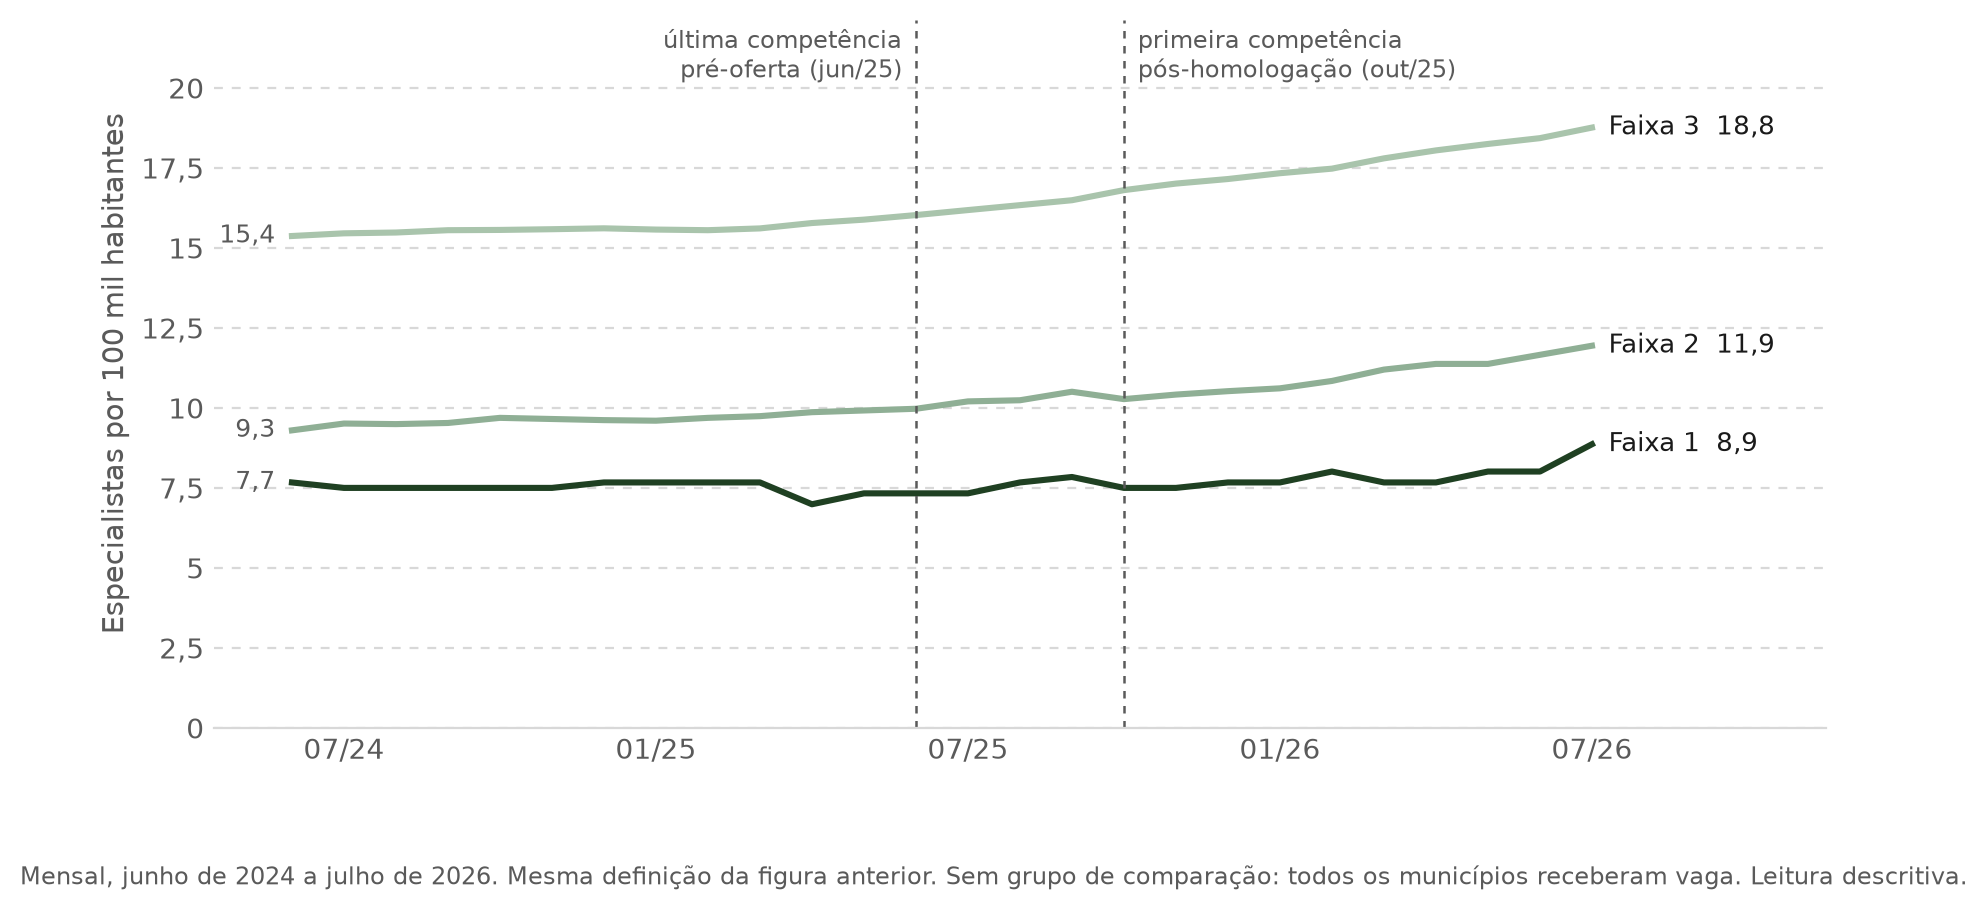
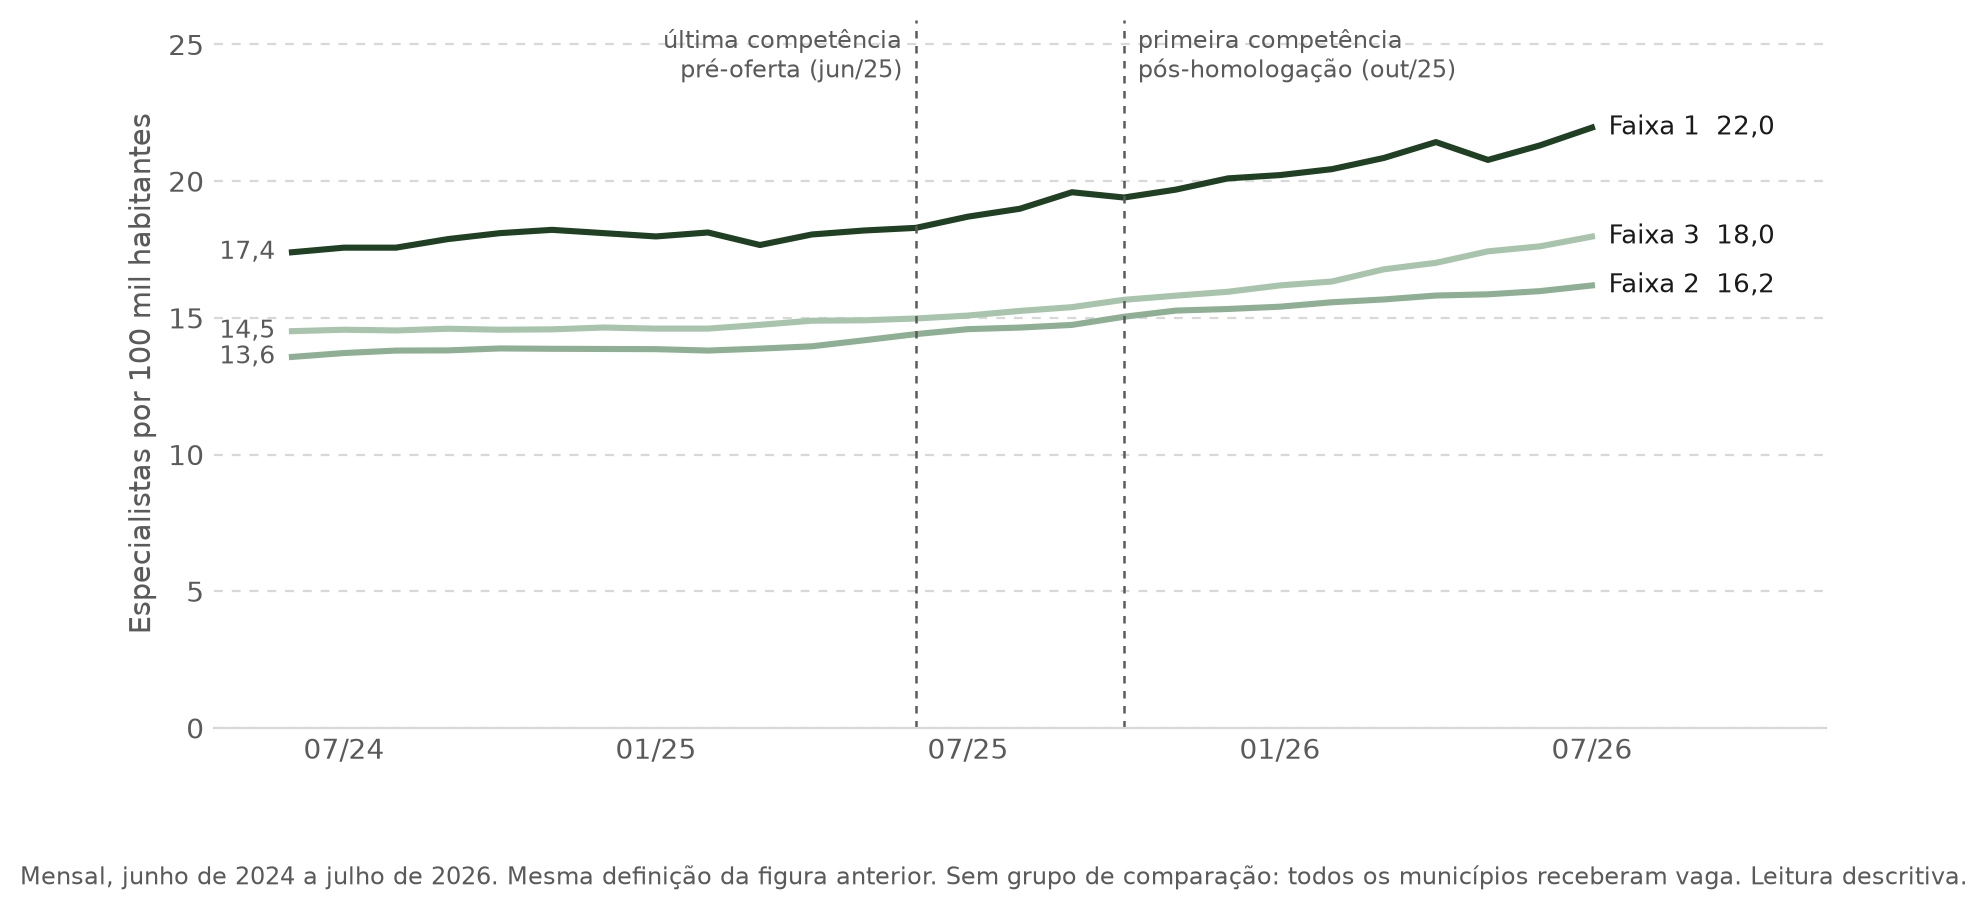
fix(banca1): agrupa as figuras pela faixa publicada e corrige os slides 4, 7 e 18
As figuras F1 e F2 agrupavam os municipios pela categoria de IVS recalculada,
enquanto o texto do slide falava em "municipios com bolsa de R$ 10 mil". Como
as duas coisas divergem em 177 dos 368 municipios, 48% dos rotulos estavam
errados. Regeradas pela faixa efetivamente publicada no quadro de vagas.

A correcao inverte o sinal de F1. A taxa por 100 mil habitantes era 16,0 na
Faixa 3 contra 7,3 na Faixa 1; passa a 15,0 contra 18,3. Municipios de Faixa 1
sao pequenos, e poucos profissionais produzem taxa alta. A retaguarda
profissional de F2 sobrevive e fica mais precisa: mediana de 2,5 colegas na
Faixa 1, 5,0 na Faixa 2 e 6,5 na Faixa 3, com 31% contra 12% de pares em que o
participante seria unico ou teria um colega.

O slide 4 passa a apresentar as duas medidas e a discordancia entre elas, que e
substantiva: a bolsa maior vai para municipios pequenos, de taxa per capita
favoravel e retaguarda rala. E o isolamento profissional, nao a cobertura
populacional, que o desenho precisa levar a serio.

O slide 7 passa a trazer as duas clausulas do edital — 11.1.4, das categorias
de IVS, e 11.1.3, que cita criterios de localizacao e remete ao Anexo IV — e
registra que a divergencia e unidirecional, logo o IVS e piso da bolsa.

O slide 18 afirmava que "nao ha municipios pouco vulneraveis recebendo bolsas
altas". Era falso no proprio dado: 37 municipios com IVS <= 0,400 estao na
Faixa 1 e 94 na Faixa 2. O slide passa a dar o resultado da reconstrucao da
[…]

diff --git a/scripts/apresentacao/gerar_figuras_banca1.py b/scripts/apresentacao/gerar_figuras_banca1.py
@@ -92,9 +92,9 @@ FAIXA_2025 = {
 }
 ORDEM_FAIXAS = ["Faixa 3", "Faixa 2", "Faixa 1"]
 ROTULO_FAIXA = {
-    "Faixa 3": "Faixa 3\nR$ 10 mil\nmédia, baixa ou muito baixa",
-    "Faixa 2": "Faixa 2\nR$ 15 mil\nalta",
-    "Faixa 1": "Faixa 1\nR$ 20 mil\nmuito alta",
+    "Faixa 3": "Faixa 3\nR$ 10 mil",
+    "Faixa 2": "Faixa 2\nR$ 15 mil",
+    "Faixa 1": "Faixa 1\nR$ 20 mil",
 }
 COR_FAIXA = {"Faixa 3": VERDE_CLARO_LINHA, "Faixa 2": VERDE_MEDIO, "Faixa 1": VERDE_ESCURO}
 COR_BARRA = {"Faixa 3": VERDE_CLARO, "Faixa 2": VERDE_MEDIO, "Faixa 1": VERDE_ESCURO}
@@ -128,6 +128,25 @@ def _rodape(fig, texto: str, y: float = -0.06) -> None:
     fig.text(0.5, y, texto, ha="center", fontsize=8.5, color=TINTA_SUAVE, wrap=True)
 
 
+def faixa_publicada() -> pd.DataFrame:
+    """Faixa efetivamente publicada em cada município, do quadro de vagas.
+
+    Agrupar pela categoria de IVS recalculada rotularia errado 177 dos 368
+    municípios: a categoria é o piso da bolsa, não o valor pago. Quem aparece
+    num gráfico "por faixa de bolsa" tem de ser quem recebeu aquela bolsa.
+    """
+    quadro = pd.read_parquet(QUADRO)
+    faixas = (
+        quadro[["co_ibge_6d", "faixa_atracao_anunciada"]]
+        .drop_duplicates()
+        .assign(co_ibge_6d=lambda f: f.co_ibge_6d.astype(str))
+    )
+    if faixas.groupby("co_ibge_6d").faixa_atracao_anunciada.nunique().gt(1).any():
+        raise SystemExit("faixa publicada não é única por município")
+    faixas["faixa"] = faixas["faixa_atracao_anunciada"].str.title().str.replace("Faixa ", "Faixa ")
+    return faixas[["co_ibge_6d", "faixa"]]
+
+
 def _fmt(valor: float) -> str:
     return f"{valor:.1f}".replace(".", ",")
 
@@ -139,12 +158,14 @@ def taxas_por_faixa() -> tuple[pd.DataFrame, dict]:
     pop = pd.read_csv(POPULACAO, dtype={"co_ibge_7d": str})
 
     municipio_mes = (
-        painel.groupby(["competencia", "co_ibge_7d", "ivs_categoria"], as_index=False)
-        ["especialistas_mst"].sum()
+        painel.groupby(["competencia", "co_ibge_6d", "co_ibge_7d", "ivs_categoria"],
+                       as_index=False)["especialistas_mst"].sum()
         .merge(pop[["co_ibge_7d", "populacao_2022"]], on="co_ibge_7d", how="left")
     )
     assert municipio_mes["populacao_2022"].notna().all(), "município sem população"
-    municipio_mes["faixa"] = municipio_mes["ivs_categoria"].map(FAIXA_2025)
+    municipio_mes["co_ibge_6d"] = municipio_mes["co_ibge_6d"].astype(str)
+    municipio_mes = municipio_mes.merge(faixa_publicada(), on="co_ibge_6d", how="left")
+    assert municipio_mes["faixa"].notna().all(), "município sem faixa publicada"
 
     agregado = (
         municipio_mes.groupby(["competencia", "faixa"])
@@ -233,7 +254,9 @@ def figura_retaguarda_por_faixa() -> Path:
     """Quantos colegas da mesma especialidade o médico encontraria no município."""
     painel = pd.read_parquet(PAINEL)
     painel = painel[(painel["curso_sem_sobreposicao"] == 1) & (painel["competencia"] == ULTIMA_PRE)]
-    painel = painel.assign(faixa=painel["ivs_categoria"].map(FAIXA_2025))
+    painel = (painel.assign(co_ibge_6d=painel["co_ibge_6d"].astype(str))
+              .merge(faixa_publicada(), on="co_ibge_6d", how="left"))
+    assert painel["faixa"].notna().all(), "célula sem faixa publicada"
     resumo = painel.groupby("faixa").agg(
         celulas=("especialistas_mst", "size"),
         mediana=("especialistas_mst", "median"),

diff --git a/docs/07_apresentacoes/banca1/02_conteudo_slides.md b/docs/07_apresentacoes/banca1/02_conteudo_slides.md
@@ -66,32 +66,39 @@ recortes de imprensa citados.
 
 ---
 
-## 4 — Municípios com bolsas maiores partiam de uma oferta menor
+## 4 — Onde a bolsa é maior, o médico tem menos colegas — mas não menos oferta por habitante
 
 `1. Motivação · Problema · 2 de 3`
 
-Esse padrão também aparece entre os municípios contemplados pelo programa. Nos
-295 municípios com vagas no ciclo 1, a oferta de especialistas já era menor nas
-faixas de bolsa mais altas antes da publicação do edital.
+Nos 295 municípios com vaga no ciclo 1, agrupados **pela faixa de bolsa
+efetivamente publicada**, as duas medidas de oferta discordam — e a discordância
+é informativa.
 
 ![Especialistas por 100 mil habitantes em junho de 2025, por faixa de bolsa](../../../output/apresentacao_banca1/oferta_pre_por_faixa.png)
 
-Em junho de 2025, havia **16,0 especialistas por 100 mil habitantes** nos
-municípios que receberiam vagas com bolsa de R$ 10 mil. Entre os municípios com
-bolsa de R$ 20 mil, eram **7,3 por 100 mil**.
+Por habitante, a oferta prévia era **maior** onde a bolsa é maior: **18,3
+especialistas por 100 mil** nos municípios de Faixa 1 (R$ 20 mil), contra **15,0**
+na Faixa 3 (R$ 10 mil) e 14,4 na Faixa 2. Municípios de Faixa 1 são pequenos, e
+poucos profissionais bastam para produzir uma taxa alta.
 
 ![Colegas da mesma especialidade no município, junho de 2025](../../../output/apresentacao_banca1/retaguarda_por_faixa.png)
 
-A diferença também aparece dentro de cada especialidade. Na Faixa 1, a mediana
-era de **2 colegas da mesma especialidade** no município, ante 5 na Faixa 3. Em
-**42%** dos pares município–especialidade da Faixa 1, o participante seria o
-único especialista ou teria apenas um colega.
+Em números absolutos, que é o que o médico enxerga ao escolher onde trabalhar, a
+ordem se inverte. Na Faixa 1 a mediana era de **2,5 colegas da mesma
+especialidade** no município, contra 5,0 na Faixa 2 e 6,5 na Faixa 3. Em **31%**
+dos pares município–especialidade da Faixa 1, o participante seria o único
+especialista ou teria apenas um colega — ante 12% na Faixa 3.
+
+A leitura é que a bolsa maior não compensa uma escassez *per capita*: ela vai
+para lugares pequenos, onde a taxa por habitante pode ser até favorável mas a
+**retaguarda profissional é rala**. É essa dimensão — isolamento profissional, não
+cobertura populacional — que o desenho precisa levar a sério.
 
 **Fontes:** CNES, competência 06/2025; profissionais nos CBOs dos 10 cursos do
 programa com correspondência unívoca curso–CBO; 295 municípios com vaga nesses
-cursos no ciclo 1; população residente do Censo 2022 (IBGE). Faixa pela
-categoria de IVS do Ipea. A Faixa 1 tem 19 pares município–especialidade: a
-porcentagem oscila com poucos casos, a mediana não.
+cursos no ciclo 1; população residente do Censo 2022 (IBGE). **Faixa pela bolsa
+publicada em cada vaga**, não pela categoria de IVS recalculada — as duas diferem
+em 177 dos 368 municípios (ver slide 7).
 
 ---
 
@@ -176,40 +183,52 @@ de vagas do ciclo 1, chamada 1; Censo 2022 (IBGE).
 
 ---
 
-## 7 — O valor da bolsa é definido pela vulnerabilidade do município
+## 7 — O IVS é o piso da bolsa, não o critério dela
 
 `1. Motivação · Política · 2 de 2`
 
 A bolsa não varia com a especialidade, a carga de trabalho ou a produção do
-médico. No edital de 2025, o valor dependia da categoria territorial atribuída
-ao município a partir do IVS:
+médico. O edital de 2025 traz **duas** cláusulas sobre como o valor é fixado, e
+elas dizem coisas diferentes:
 
-1. O **IVS 2010**, calculado pelo Ipea, varia de 0 a 1 e reúne dezesseis
-   indicadores do Censo 2010. O índice abrange infraestrutura urbana, capital
-   humano e renda e trabalho.
-2. O Ipea classifica os municípios em cinco categorias: muito baixa (até
-   0,200), baixa (0,201–0,300), média (0,301–0,400), alta (0,401–0,500) e muito
-   alta (acima de 0,500).
-3. O edital agrupou essas categorias em três faixas de bolsa.
+- **11.1.4** define a faixa de atração "com base na categorização municipal do
+  IVS": muito alta → Faixa 1, alta → Faixa 2, média/baixa/muito baixa → Faixa 3.
+- **11.1.3** diz que o valor segue "critérios de **localização** e
+  vulnerabilidade definidos de acordo com a faixa de atração definida no
+  **Anexo IV** no site do Mais Médicos".
 
 | Categoria de IVS | Faixa | Bolsa mensal |
 |---|:---:|---:|
-| muito alta | 1 | R$ 20.000 |
-| alta | 2 | R$ 15.000 |
-| média, baixa ou muito baixa | 3 | R$ 10.000 |
+| muito alta (> 0,500) | 1 | R$ 20.000 |
+| alta (0,401–0,500) | 2 | R$ 15.000 |
+| média, baixa ou muito baixa (≤ 0,400) | 3 | R$ 10.000 |
 
 ![Bolsa mensal por faixa de atração](../../../output/apresentacao_banca1/bolsa_por_faixa.png)
 
-No ciclo 1, foram publicados 102 municípios na Faixa 1, 107 na Faixa 2 e 159
-na Faixa 3. Há, contudo, uma divergência importante: em **177 dos 368
-municípios**, a categoria publicada não coincide com a classificação obtida ao
-aplicar os cortes do Ipea ao IVS municipal. Além disso, a regra foi alterada em
-2026, quando os municípios de vulnerabilidade *alta* passaram à Faixa 1. Na
-análise, portanto, deve prevalecer a faixa efetivamente publicada em cada vaga.
+No ciclo 1 foram publicados 102 municípios na Faixa 1, 107 na Faixa 2 e 159 na
+Faixa 3. Em **177 dos 368**, a faixa publicada não coincide com a categoria de
+IVS — e a divergência tem uma direção só:
 
-**Fontes:** Edital SGTES/MS nº 3/2025, item 11.1.3, e retificação; Chamamento
-SGTES/MS nº 1/2026; Ipea, *Atlas da Vulnerabilidade Social nos Municípios
-Brasileiros* (2015); quadro de vagas do ciclo 1.
+> **Nenhum município recebe menos do que a categoria de IVS manda. 177 recebem
+> mais.** Zero violações para baixo em 368 casos.
+
+Uma vintagem diferente do índice, ou erro de medida, erraria nos dois sentidos.
+A assimetria perfeita indica regra: a categoria de IVS fixa um **piso**, e o
+critério de localização da cláusula 11.1.3 promove 48% dos municípios acima
+dele. O Anexo IV, que é o documento operativo, não é reproduzido no edital —
+constam dele apenas os Anexos I a III — e não está entre as fontes preservadas.
+
+A grade também mudou em 2026, quando a vulnerabilidade *alta* passou à Faixa 1.
+Aplicada ao ciclo 1, essa regra acerta 224 dos 368 contra 191 da regra de 2025;
+nem uma, nem outra, nem a união das duas (237) reproduz o que foi publicado. Na
+análise, portanto, prevalece a faixa efetivamente publicada em cada vaga.
+
+**Fontes:** Edital SGTES/MS nº 3/2025, itens 11.1.3 e 11.1.4 (PDF do DOU
+preservado, com hash); FAQ oficial da bolsa; Chamamento SGTES/MS nº 1/2026;
+Ipea, *Atlas da Vulnerabilidade Social nos Municípios Brasileiros* (2015);
+quadro de vagas do ciclo 1. Reconstrução em
+[`docs/05_identificacao/14_plano_implementacao_rdd_bolsa.md`](../../05_identificacao/14_plano_implementacao_rdd_bolsa.md)
+e em `output/rdd_bolsa/a01b_reconstrucao_regra_faixa.json`.
 
 ---
 
@@ -512,13 +531,36 @@ A renda no mercado privado e a distância da família não são observadas. Na
 especificação empírica, sua influência será aproximada pelo IVS, pela tipologia
 territorial e pelas demais características municipais disponíveis.
 
-O principal desafio é separar remuneração e vulnerabilidade. A própria regra do
-programa vincula uma à outra, de modo que não há municípios pouco vulneráveis
-recebendo bolsas altas. A identificação exige comparar municípios semelhantes
-que tenham sido classificados em faixas distintas.
+O principal desafio é separar remuneração e vulnerabilidade. A reconstrução da
+regra, que era a primeira etapa prevista da análise empírica, já foi executada e
+tem três resultados.
 
-Para isso, ainda é necessário esclarecer como a regra foi aplicada. Em **177
-dos 368 municípios** do ciclo 1, a faixa publicada não coincide com a que seria
-obtida pela aplicação direta dos cortes do Ipea ao IVS municipal. Reconstruir o
-critério usado pelo Ministério da Saúde é, portanto, a primeira etapa da análise
-empírica.
+**Primeiro: há suporte comum, ao contrário do que se supunha.** Municípios pouco
+vulneráveis *recebem* bolsas altas — 37 municípios com IVS ≤ 0,400 estão na Faixa
+1 e 94 na Faixa 2. Os intervalos de IVS das três faixas se sobrepõem, e a Faixa 1
+começa em IVS 0,303, dentro da categoria *média*. Não falta variação.
+
+**Segundo: a descontinuidade no IVS não existe onde os cortes estão.** Em torno
+de 0,500, os dois lados são 100% Faixa 1 em qualquer janela até ±0,050 — não há
+o que saltar. Em torno de 0,400, nenhum município de Faixa 3 aparece por perto (o
+maior IVS da Faixa 3 é 0,372) e a composição dos dois lados é equivalente. O
+tratamento é **localmente constante nos dois cortes**: quando o IVS chega ao
+limiar, a promoção pelo outro critério já ocorreu. Nenhuma escolha de janela,
+kernel ou estimador contorna isso.
+
+**Terceiro: a variação que sobra não é exógena.** Dos 83 municípios fora da
+melhor regra de limiar possível, os 41 promovidos acima do piso têm mediana de
+população de 7.933 contra 32.179 dos 42 rebaixados, renda per capita menor e
+proporção muito maior de interior remoto. Como a remoticidade é o previsor mais
+forte do próprio desfecho, comparar municípios semelhantes com bolsas diferentes
+confunde bolsa com posição territorial — e o viés tem direção conhecida, contra
+a bolsa: quem recebeu mais é quem é mais difícil de prover.
+
+A conclusão de viabilidade é, portanto, negativa e específica: **o efeito causal
+do valor da bolsa não é identificável com as fontes públicas disponíveis**, e a
+razão não é potência amostral. Destravá-lo exige o Anexo IV e os critérios de
+localização da cláusula 11.1.3, que definem a atribuição e não são públicos.
+
+Isso não bloqueia o projeto. O desenho causal do trabalho é outro — a
+descontinuidade no escore de seleção do candidato —, e a inviabilidade da RDD no
+IVS é ela própria um resultado de viabilidade, que é o escopo desta banca.

diff --git a/docs/07_apresentacoes/banca1/03_proveniencia_figuras_e_numeros.md b/docs/07_apresentacoes/banca1/03_proveniencia_figuras_e_numeros.md
@@ -71,8 +71,9 @@ Fontes externas, conferidas em 09/09/2026.
 
 | Número | Fonte |
 |---|---|
-| 16,0 e 7,3 especialistas por 100 mil hab. (Faixa 3 e Faixa 1), jun/2025 | `F1` |
-| Mediana de 2 colegas na Faixa 1 contra 5 na Faixa 3; 42% sozinho ou com um único colega | `F2`. Faixa 1 tem 19 pares município–especialidade: a proporção é frágil, a mediana é robusta |
+| 18,3 / 14,4 / 15,0 especialistas por 100 mil hab. (Faixas 1, 2 e 3 publicadas), jun/2025 | `F1`, agrupado pela faixa publicada no quadro de vagas |
+| Mediana de 2,5 colegas na Faixa 1, 5,0 na Faixa 2 e 6,5 na Faixa 3; 31% contra 12% sozinho ou com um único colega | `F2`, agrupado pela faixa publicada. Faixa 1 tem 150 pares município–especialidade em 85 municípios |
+| Agrupamento por faixa publicada, e não por categoria de IVS recalculada | corrigido em 14/09/2026 em `scripts/apresentacao/gerar_figuras_banca1.py`; a versão anterior rotulava errado 177 dos 368 municípios e invertia o sinal de `F1` |
 
 ### Slide 5 — o que o médico vê
 
@@ -102,6 +103,10 @@ Fontes externas, conferidas em 09/09/2026.
 | 102 / 107 / 159 municípios por faixa publicada | quadro de vagas do ciclo 1 |
 | 177 dos 368 municípios com faixa publicada diferente da recalculada | portão R1, `docs/05_identificacao/16_sintese_achados_e_novo_plano_causal.md`, §3.5 |
 | Grade mudou em 2026: *alta* passou à Faixa 1 | Chamamento SGTES/MS nº 1/2026; auditoria §6.4 |
+| Cláusulas 11.1.3 (localização + Anexo IV) e 11.1.4 (categorias de IVS) | Edital SGTES/MS nº 3/2025, PDF do DOU preservado em `data/raw/aquisicao/ivs_regra/`, com SHA-256 registrado no artefato |
+| 0 municípios abaixo do piso de IVS, 177 acima | `output/rdd_bolsa/a01b_reconstrucao_regra_faixa.json`, gerado por `scripts/rdd_bolsa/01b_reconstruir_regra_faixa.py` |
+| Regra de 2026 aplicada ao ciclo 1 acerta 224/368; união das duas regras, 237/368 | `output/rdd_bolsa/a01b_reconstrucao_regra_faixa.json`, gerado por `scripts/rdd_bolsa/01b_reconstruir_regra_faixa.py` |
+| Anexo IV não reproduzido no edital (constam I a III) | mesmo PDF, índice de anexos |
 
 ### Slides 8 e 9 — a evidência
 
@@ -133,6 +138,11 @@ seção 7.
 |---|---|
 | 1.295 vagas estabelecimento–curso, 368 municípios | quadro de vagas do ciclo 1, chamada 1 |
 | 177 dos 368 municípios com faixa publicada diferente da recalculada | portão R1 |
+| 37 municípios com IVS ≤ 0,400 na Faixa 1; 94 na Faixa 2; Faixa 1 começa em IVS 0,303 | `output/rdd_bolsa/a01b_reconstrucao_regra_faixa.json`, gerado por `scripts/rdd_bolsa/01b_reconstruir_regra_faixa.py` |
+| Em ±0,050 de 0,500, os dois lados são 100% Faixa 1 | `output/rdd_bolsa/a01b_reconstrucao_regra_faixa.json`, gerado por `scripts/rdd_bolsa/01b_reconstruir_regra_faixa.py` |
+| Maior IVS da Faixa 3 é 0,372; em ±0,010 de 0,400 não há Faixa 3 de nenhum lado | `output/rdd_bolsa/a01b_reconstrucao_regra_faixa.json`, gerado por `scripts/rdd_bolsa/01b_reconstruir_regra_faixa.py` |
+| 83 municípios fora da melhor regra de limiar; 41 promovidos com mediana de população 7.933 contra 32.179 dos 42 rebaixados | `output/rdd_bolsa/a01b_reconstrucao_regra_faixa.json`, gerado por `scripts/rdd_bolsa/01b_reconstruir_regra_faixa.py` |
+| Remoticidade como previsor mais forte do desfecho | `A4_tabela_02_modelo_principal_LPM.csv` e `A4_tabela_02b_logit_AME.csv` |
 | CNES mensal, jun/2024 a jul/2026 | `output/avaliacao_impacto/dados/painel_municipio_curso_mes.parquet` |
 
 ---

diff --git a/docs/07_apresentacoes/banca1/01_roteiro_narrativo.md b/docs/07_apresentacoes/banca1/01_roteiro_narrativo.md
@@ -197,6 +197,22 @@ De 11 para 18 slides.
 | hipóteses | derivação escrita em quatro passos numerados |
 | viabilidade | custo de vida e distância da família entram na tabela; fecha com o primeiro passo do trabalho empírico |
 
+## 4b. Ajustes de 14/09/2026 — correção de agrupamento e da regra da bolsa
+
+Origem: a leitura do Edital SGTES/MS nº 3/2025 e a reconstrução da regra da
+faixa, registradas em
+[`05_identificacao/14_plano_implementacao_rdd_bolsa.md`](../../05_identificacao/14_plano_implementacao_rdd_bolsa.md).
+
+| Slide | Ajuste |
+|---|---|
+| 4 | **Defeito de proveniência corrigido.** As figuras `F1` e `F2` agrupavam os municípios pela categoria de IVS **recalculada**, enquanto o texto falava em "municípios com bolsa de R$ 10 mil". Como as duas coisas divergem em 177 dos 368 municípios, 48% dos rótulos estavam errados. Regeradas pela **faixa publicada**. A taxa por 100 mil habitantes **inverte de sinal**: era 16,0 na Faixa 3 contra 7,3 na Faixa 1, passa a 15,0 contra 18,3. A retaguarda profissional sobrevive e fica mais precisa: mediana de 2,5 colegas na Faixa 1 contra 6,5 na Faixa 3. O título muda para refletir a discordância entre as duas medidas, que é substantiva: a bolsa maior vai para municípios pequenos, de taxa per capita favorável e retaguarda rala |
+| 7 | passa a apresentar as **duas** cláusulas do edital, a 11.1.4 (categorias de IVS) e a 11.1.3, que cita critérios de **localização** e remete ao **Anexo IV**. Registra que a divergência é unidirecional — 0 municípios abaixo do piso de IVS, 177 acima — e que, portanto, o IVS é piso da bolsa, não critério dela |
+| 18 | a reconstrução da regra, que era descrita como "primeira etapa da análise empírica", **foi executada**. O slide passa a dar o resultado: há suporte comum, mas o tratamento é localmente constante nos dois cortes de IVS e a variação residual está alinhada com remoticidade. A conclusão de viabilidade sobre a RDD no IVS é negativa e específica, e o desenho causal do trabalho não depende dela |
+
+Correção adicional ao slide 18: a afirmação de que "não há municípios pouco
+vulneráveis recebendo bolsas altas" era **falsa** no próprio dado do
+repositório — 37 municípios com IVS ≤ 0,400 estão na Faixa 1 e 94 na Faixa 2.
+
 ## 5. Defeitos do material anterior
 
 Encontrados no `PEE__Modelo_econômico.pptx` recebido em 09/09/2026.
